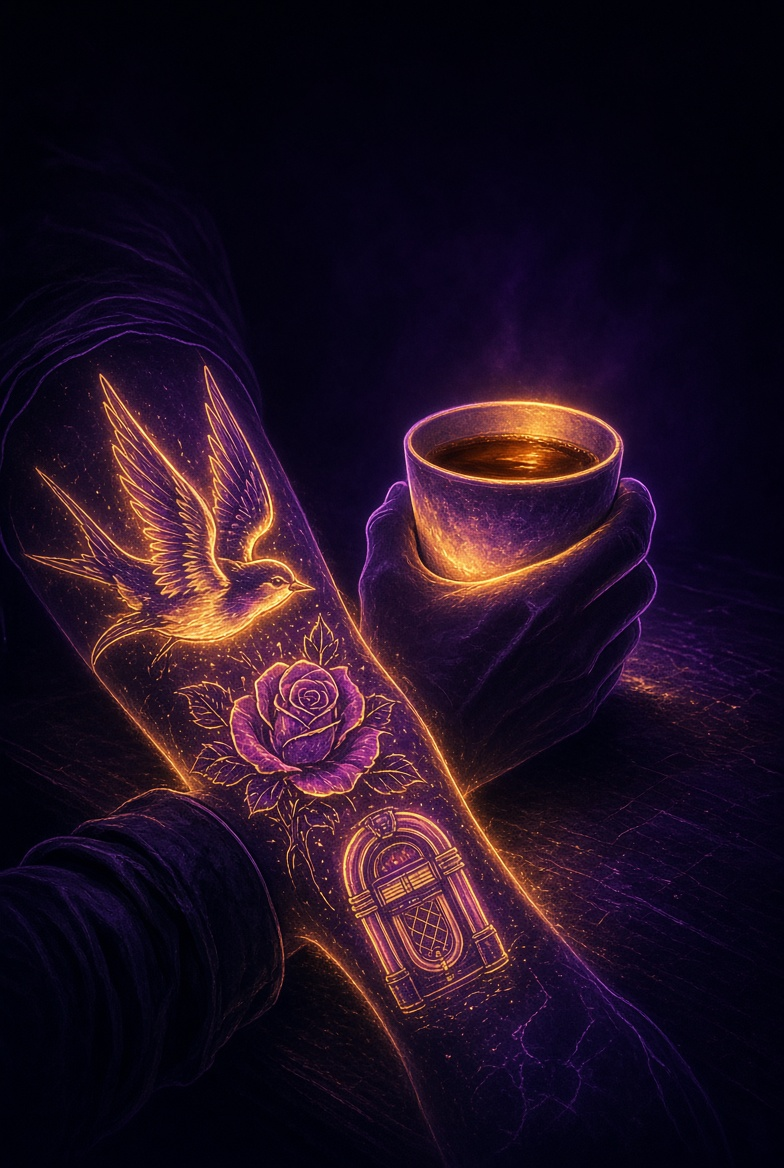
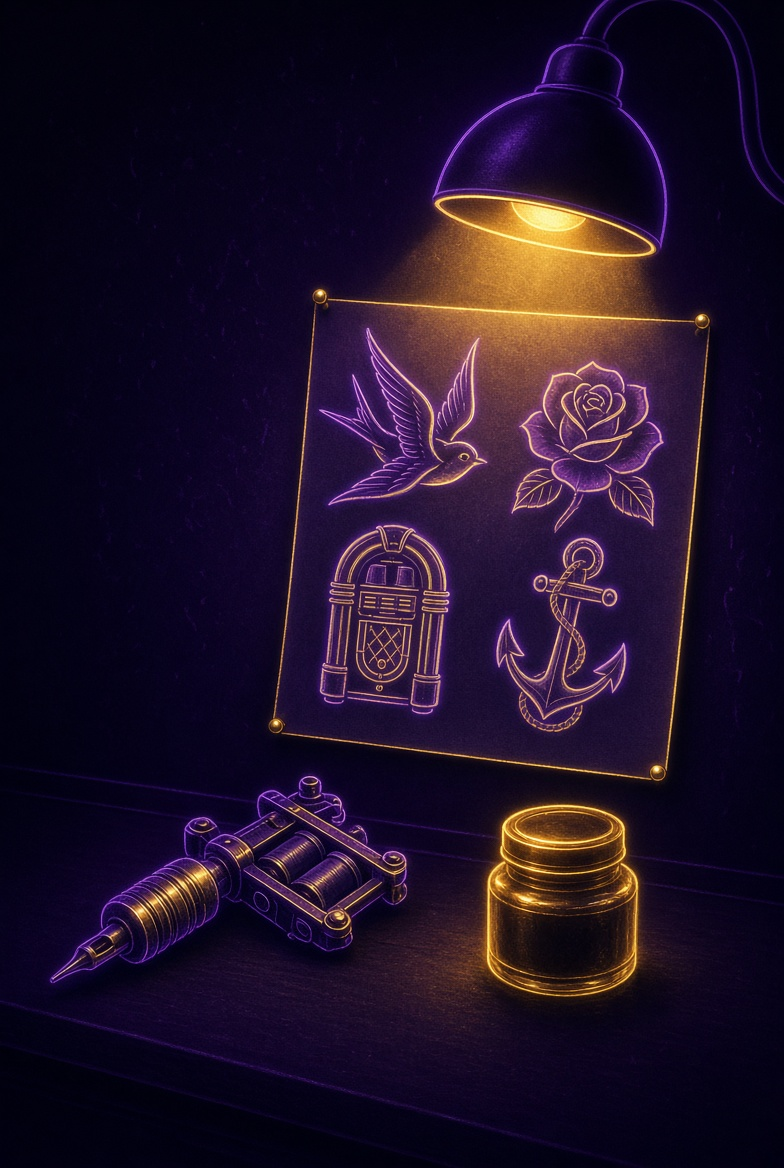
Batch 6 in the deck: six Porch and Stage cards, the joker (held out of the deal until its mechanic lands), three re-shoots
Claude-Session: https://claude.ai/code/session_01DpS3WSWyEWv47yVGUZ6wfW

diff --git a/common_ground/deck.py b/common_ground/deck.py
@@ -39,10 +39,13 @@ def public(c: dict) -> dict:
     return {k: v for k, v in c.items() if k != "signal"}
 
 
+JOKER = "joker"          # On the house: no taste signal; played, the song is free if both say yes
+
+
 def deal(seen: set[int], rng: random.Random | None = None) -> list[int]:
     rng = rng or random
     music = [c["id"] for c in cards() if c["cat"] in MUSIC_CATS and c["id"] not in seen]
-    other = [c["id"] for c in cards() if c["cat"] not in MUSIC_CATS and c["id"] not in seen]
+    other = [c["id"] for c in cards() if c["cat"] not in MUSIC_CATS and c["cat"] != JOKER and c["id"] not in seen]
     hand = rng.sample(music, min(MUSIC_IN_HAND, len(music))) + rng.sample(other, min(HAND - MUSIC_IN_HAND, len(other)))
     rng.shuffle(hand)
     return hand
@@ -53,7 +56,7 @@ def draw_one(seen: set[int], like: int, rng: random.Random | None = None) -> int
     life for life) so the hand keeps its mix, never one this side has already seen."""
     rng = rng or random
     music = card(like)["cat"] in MUSIC_CATS
-    pool = [c["id"] for c in cards() if (c["cat"] in MUSIC_CATS) == music and c["id"] not in seen]
+    pool = [c["id"] for c in cards() if (c["cat"] in MUSIC_CATS) == music and c["cat"] != JOKER and c["id"] not in seen]
     return rng.choice(pool) if pool else None
 
 

diff --git a/tests/test_deck.py b/tests/test_deck.py
@@ -12,13 +12,16 @@ def test_every_card_has_a_verified_signal_and_art():
     assert len(ids) == len(set(ids))
     for c in cards:
         sig = c["signal"]
+        if c["cat"] == deck.JOKER:
+            assert not sig, "the joker has no signal"
+            continue
         assert sig.get("tags") or sig.get("audiences"), c["name"]
         for t in sig.get("tags", []):
             assert t.startswith("urn:tag:"), t
         for a in sig.get("audiences", []):
             assert a.startswith("urn:audience:"), a
         assert c["img"].startswith("static/deck/") and c["img"].endswith(".jpg") and pathlib.Path(c["img"]).exists(), c["name"]
-        assert c["cat"] in {"music", "life", "table", "place", "heart", "book", "game"}
+        assert c["cat"] in {"music", "life", "table", "place", "heart", "book", "game", "joker"}
 
 
 def test_dead_tags_are_not_in_the_deck():

diff --git a/common_ground/matrix.py b/common_ground/matrix.py
@@ -330,7 +330,7 @@ def missing_cards(m: dict | None, cards: list[dict] | None = None) -> list[dict]
     """Cards in the deck that the matrix has no column for yet (new art landed)."""
     cards = cards or list(deck.cards())
     have = set((m or {}).get("scores", {}))
-    return [c for c in cards if str(c["id"]) not in have]
+    return [c for c in cards if str(c["id"]) not in have and c.get("signal")]     # the joker has nothing to score
 
 
 def add_cards(q: Qloo, cards: list[dict], *, path: pathlib.Path | None = None,
